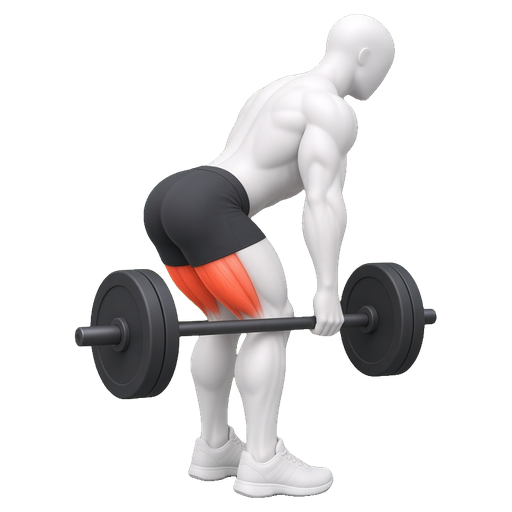
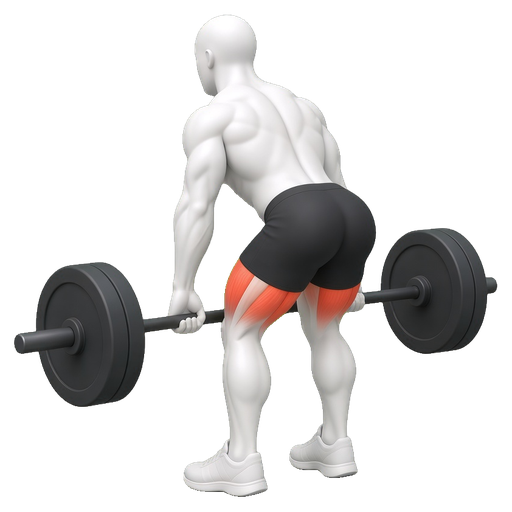
Redo Romanian Deadlift illustration: bar runs left-to-right, hamstrings lit; bump image cache

diff --git a/core.js b/core.js
@@ -167,9 +167,9 @@ const LIBB={};BUILTIN.forEach(a=>LIBB[a[0]]={id:a[0],name:a[1],equip:a[2],muscle
 let S;
 const LIB=id=>LIBB[id]||(S.custom&&S.custom[id])||{id,name:'Exercise',equip:'dumbbell',muscle:'Chest',also:[],min:8,max:10,startW:20};
 const allEx=()=>[...Object.values(LIBB),...Object.values(S.custom||{})];
-const exImg=e=>e.photo||(ASSET+'img/ex/'+(e.img||(e.custom?'default':'generic'))+'.png?v=2');
+const exImg=e=>e.photo||(ASSET+'img/ex/'+(e.img||(e.custom?'default':'generic'))+'.png?v=3');
 const exBg=e=>`style="background-image:url('${exImg(e)}')${e.photo?';background-size:cover':e.img?';background-color:transparent;background-size:contain':';background-color:#28282a'}"`;
-const iconImg=ic=>ASSET+'img/icons/'+ic+'.png?v=2';
+const iconImg=ic=>ASSET+'img/icons/'+ic+'.png?v=3';
 function save(){try{localStorage.setItem(KEY,JSON.stringify(S))}catch(e){console.warn(e)}}
 function load(){try{const s=JSON.parse(localStorage.getItem(KEY));if(s&&s.v===1)return s}catch(e){}return null}
 

diff --git a/watch/index.html b/watch/index.html
@@ -27,7 +27,7 @@
   <a href="#" id="tgl">Frameless</a><a href="#" id="rst">Reset data</a>
 </div>
 <script>window.ASSET_BASE='../';</script>
-<script src="../core.js?v=8"></script>
+<script src="../core.js?v=9"></script>
 <script src="watch.js?v=7"></script>
 </body>
 </html>

diff --git a/web/index.html b/web/index.html
@@ -13,7 +13,7 @@
 <body>
 <div id="app"></div>
 <script>window.ASSET_BASE='../';</script>
-<script src="../core.js?v=8"></script>
+<script src="../core.js?v=9"></script>
 <script src="app.js?v=4"></script>
 </body>
 </html>

diff --git a/index.html b/index.html
@@ -17,7 +17,7 @@
 </head>
 <body>
 <div id="app"></div>
-<script src="core.js?v=8"></script>
+<script src="core.js?v=9"></script>
 <script src="app.js?v=8"></script>
 </body>
 </html>
